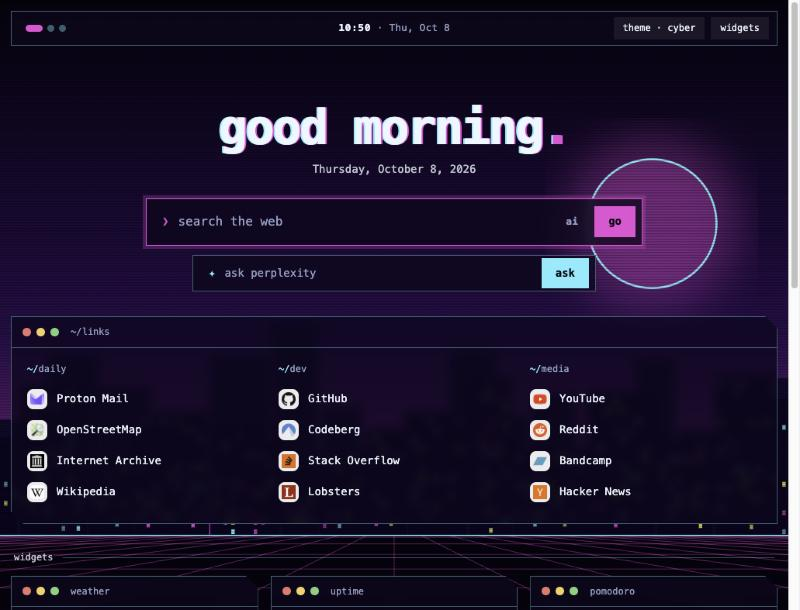
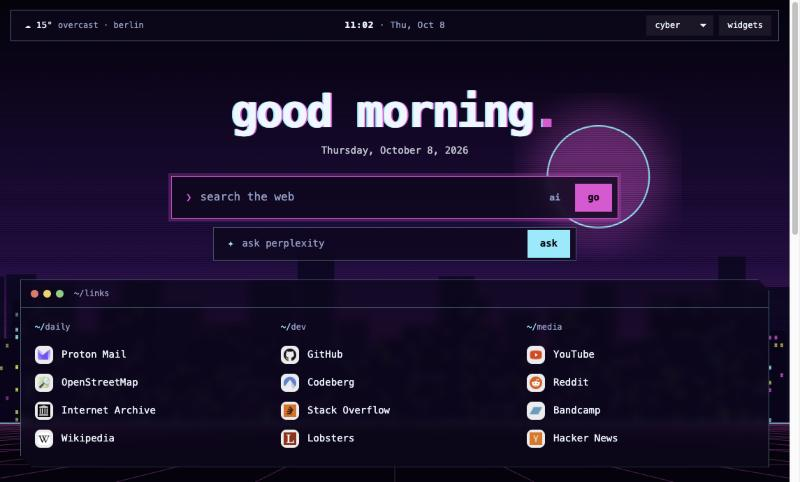
Update Weather Widget + Theme Selection

Changed region(s): [[0.0, 0.1556, 1.0, 1.0], [0.0, 0.0, 1.0, 0.4979], [0.1875, 0.9647, 0.2188, 0.9959]]

diff --git a/index.html b/index.html
@@ -71,13 +71,29 @@ a{color:inherit;text-decoration:none}
   background:var(--panel);border:var(--bw) var(--bs) var(--line);backdrop-filter:blur(var(--blur));-webkit-backdrop-filter:blur(var(--blur));font-size:13px}
 #top .l,#top .r{display:flex;gap:8px;align-items:center}
 #top .r{justify-content:flex-end}
-.ws{display:flex;gap:6px;padding:0 8px}
-.ws i{width:9px;height:9px;border-radius:50%;background:var(--line)}
-.ws i:first-child{background:var(--accent);width:22px;border-radius:9px}
+#wx{padding-left:10px;white-space:nowrap;font-size:13px}
+#wx small{color:var(--muted);font-size:12px}
 #clock{font-weight:600;letter-spacing:.04em}
 #date{color:var(--muted)}
 .pill{font:inherit;font-size:12px;color:var(--text);background:rgba(127,127,127,.14);border:0;border-radius:var(--pill);padding:5px 12px;cursor:pointer;transition:.15s}
-.pill:hover,.pill:focus-visible{background:var(--accent);color:var(--ink);outline:none}
+.pill:hover,.pill:focus-visible{background-color:var(--accent);color:var(--ink);outline:none}
+select.pill{appearance:none;-webkit-appearance:none;font-family:inherit;padding-right:26px;
+  background-image:linear-gradient(45deg,transparent 50%,currentColor 50%),linear-gradient(135deg,currentColor 50%,transparent 50%);
+  background-position:calc(100% - 14px) 52%,calc(100% - 9px) 52%;background-size:5px 5px,5px 5px;background-repeat:no-repeat}
+select.pill option{background:var(--sky1);color:var(--text)}
+.hnr{margin:0 0 10px}
+/* theme dropdown: styled by the active theme's variables, so hovering an entry (which previews that theme) restyles it too */
+.tsel{position:relative}
+#wpb{width:130px;display:flex;justify-content:space-between;align-items:center;gap:8px;text-align:left}
+#wpb span{overflow:hidden;text-overflow:ellipsis;white-space:nowrap}
+#wpb b{font-weight:400;opacity:.7}
+#wpm{position:absolute;right:0;top:calc(100% + 10px);width:180px;margin:0;padding:6px;list-style:none;z-index:8;
+  background:color-mix(in srgb,var(--sky1) 90%,transparent);border:var(--bw) var(--bs) var(--line);border-radius:var(--rad);
+  box-shadow:var(--shadow);backdrop-filter:blur(10px);-webkit-backdrop-filter:blur(10px);clip-path:var(--clip)}
+#wpm li{display:flex;justify-content:space-between;align-items:center;height:34px;padding:0 12px;border-radius:min(var(--rad),8px);cursor:pointer;font-size:13px;color:var(--text)}
+#wpm li[aria-selected=true]::after{content:"✓";color:var(--accent)}
+#wpm li:hover,#wpm li:focus{background:var(--accent);color:var(--ink);outline:none}
+#wpm li:hover::after,#wpm li:focus::after{color:var(--ink)}
 
 main{position:relative;z-index:2;max-width:1100px;margin:0 auto;padding:86px 14px 120px}
 
@@ -164,7 +180,7 @@ textarea{min-height:140px;resize:vertical}
 #panel .win{width:340px;max-width:90vw;margin:0;background:var(--sky1)}
 #panel label{display:flex;gap:12px;padding:8px 0;cursor:pointer}
 #panel input{accent-color:var(--accent)}
-@media(max-width:700px){#top{grid-template-columns:auto 1fr}#top .l{display:none}#date{display:none}}
+@media(max-width:700px){#date,#wx small{display:none}#wx{padding-left:4px}#wpb{width:104px}}
 @media(prefers-reduced-motion:reduce){*{transition:none!important}}
 </style>
 </head>
@@ -174,9 +190,9 @@ textarea{min-height:140px;resize:vertical}
 <svg id="grain" aria-hidden="true"><filter id="n"><feTurbulence type="fractalNoise" baseFrequency=".85" numOctaves="2" stitchTiles="stitch"/><feColorMatrix values="0 0 0 0 .5  0 0 0 0 .5  0 0 0 0 .5  0 0 0 1.2 -.1"/></filter><rect width="100%" height="100%" filter="url(#n)"/></svg>
 
 <nav id="top">
-  <div class="l"><div class="ws"><i></i><i></i><i></i></div></div>
+  <div class="l"><span id="wx" title="weather"></span></div>
   <div><span id="clock"></span> <span id="date"></span></div>
-  <div class="r"><button class="pill" id="wp" title="Change theme">theme</button><button class="pill" id="customize">widgets</button></div>
+  <div class="r"><div class="tsel"><button type="button" class="pill" id="wpb" aria-haspopup="listbox" aria-expanded="false" title="Theme"><span></span><b>▾</b></button><ul id="wpm" role="listbox" aria-label="Theme" hidden></ul></div><button class="pill" id="customize">widgets</button></div>
 </nav>
 
 <main>
@@ -205,10 +221,11 @@ const CONFIG = Object.assign({
   askUrl: "https://www.perplexity.ai/search",
   noAiBefore: "2022-01-01",
   favicons: true,
+  hnRange: "front",
   weather: { city: "Berlin", lat: 52.52, lon: 13.41 },
   greetings: {},
   links: {},
-  defaultWidgets: ["weather", "news", "progress", "notes", "todo", "timer"]
+  defaultWidgets: ["news", "progress", "notes", "todo", "timer"]
 }, window.SETUP, window.SETUP_LOCAL);
 const ALL_THEMES = ["dusk", "moss", "ink", "matrix", "minimal", "artist", "cyber", "medieval", "sketch"];
 const THEMES = CONFIG.themes || CONFIG.wallpapers || ALL_THEMES;
@@ -227,10 +244,23 @@ function tick() {
   $("#clock").textContent = `${p(h)}:${p(d.getMinutes())}`;
   $("#date").textContent = "· " + d.toLocaleDateString(undefined, { weekday: "short", day: "numeric", month: "short" });
   const g = h < 5 ? GREET.night : h < 12 ? GREET.morning : h < 18 ? GREET.afternoon : GREET.evening;
-  $("#greeting").innerHTML = g + (CONFIG.name ? `, <em>${esc(CONFIG.name)}</em>` : "<em>.</em>");
+  $("#greeting").innerHTML = esc(g.charAt(0).toUpperCase() + g.slice(1)) + (CONFIG.name ? `, <em>${esc(CONFIG.name)}</em>` : "<em>.</em>");
   $("#sub").textContent = d.toLocaleDateString(undefined, { weekday: "long", month: "long", day: "numeric", year: "numeric" });
 }
 tick(); setInterval(tick, 1000);
+
+/* weather lives in the top bar (not a widget) */
+async function loadWx() {
+  const { city, lat, lon } = CONFIG.weather, el = $("#wx");
+  try {
+    const j = await (await fetch(`https://api.open-meteo.com/v1/forecast?latitude=${lat}&longitude=${lon}&current=temperature_2m,weather_code,wind_speed_10m&daily=temperature_2m_max,temperature_2m_min&timezone=auto`)).json();
+    const c = j.current.weather_code;
+    const [icon, label] = c <= 1 ? ["☀", "clear"] : c === 2 ? ["⛅", "partly cloudy"] : c === 3 ? ["☁", "overcast"] : c < 50 ? ["≋", "fog"] : c < 70 || (c >= 80 && c < 90) ? ["☂", "rain"] : c < 80 ? ["❄", "snow"] : ["⚡", "thunderstorm"];
+    el.innerHTML = `${icon} ${Math.round(j.current.temperature_2m)}° <small>${esc(label)} · ${esc(city.toLowerCase())}</small>`;
+    el.title = `${city}: ${label}, high ${Math.round(j.daily.temperature_2m_max[0])}° / low ${Math.round(j.daily.temperature_2m_min[0])}°, wind ${Math.round(j.current.wind_speed_10m)} km/h`;
+  } catch { el.textContent = ""; }
+}
+loadWx(); setInterval(loadWx, 15 * 60 * 1000);
 $("#search").action = CONFIG.searchUrl;
 $("#ask").action = CONFIG.askUrl;
 /* "no ai": adds a before:<date> operator so results predate the AI boom (best-effort, depends on the engine honoring it) */
@@ -387,11 +417,31 @@ function paint() {
   $("#wall").innerHTML = (PAINT[THEME_ART[t] || t] || PAINT.landscape)(c);
   if (t === "matrix") stopFx = rain();
 }
-const setWp = n => { document.documentElement.dataset.wp = n; $("#wp").textContent = "theme · " + n; paint(); };
-$("#wp").onclick = () => {
-  const n = THEMES[(THEMES.indexOf(document.documentElement.dataset.wp) + 1) % THEMES.length];
-  setWp(n); store.set("wp", n);
-};
+const setWp = n => { document.documentElement.dataset.wp = n; paint(); };
+/* theme dropdown: hovering (or arrowing to) an entry previews that theme, clicking applies it */
+const menu = $("#wpm"), tbtn = $("#wpb");
+let committed = THEMES[0], pt;
+menu.innerHTML = THEMES.map(n => `<li role="option" tabindex="-1" data-t="${esc(n)}">${esc(n)}</li>`).join("");
+const lis = () => [...menu.querySelectorAll("li")];
+const markCur = () => lis().forEach(li => li.setAttribute("aria-selected", li.dataset.t === committed));
+const preview = n => { clearTimeout(pt); pt = setTimeout(() => { if (document.documentElement.dataset.wp !== n) setWp(n); }, 50); };
+const openMenu = () => { menu.hidden = false; tbtn.setAttribute("aria-expanded", "true"); markCur(); menu.querySelector(`[data-t="${committed}"]`).focus(); };
+const closeMenu = () => { if (menu.hidden) return; menu.hidden = true; tbtn.setAttribute("aria-expanded", "false"); preview(committed); };
+const commitWp = n => { committed = n; clearTimeout(pt); setWp(n); tbtn.firstElementChild.textContent = n; store.set("wp", n); markCur(); closeMenu(); tbtn.focus(); };
+tbtn.onclick = () => menu.hidden ? openMenu() : closeMenu();
+menu.addEventListener("mouseover", e => { const li = e.target.closest("li"); if (li) { li.focus({ preventScroll: true }); preview(li.dataset.t); } });
+menu.addEventListener("focusin", e => { const li = e.target.closest("li"); if (li) preview(li.dataset.t); });
+menu.addEventListener("mouseleave", () => preview(committed));
+menu.addEventListener("click", e => { const li = e.target.closest("li"); if (li) commitWp(li.dataset.t); });
+menu.addEventListener("keydown", e => {
+  const items = lis(), i = items.indexOf(document.activeElement);
+  if (e.key === "ArrowDown") { e.preventDefault(); items[(i + 1) % items.length].focus(); }
+  else if (e.key === "ArrowUp") { e.preventDefault(); items[(i - 1 + items.length) % items.length].focus(); }
+  else if (e.key === "Enter" || e.key === " ") { e.preventDefault(); if (i >= 0) commitWp(items[i].dataset.t); }
+  else if (e.key === "Escape") { e.preventDefault(); closeMenu(); tbtn.focus(); }
+  else if (e.key === "Tab") closeMenu();
+});
+document.addEventListener("click", e => { if (!e.target.closest(".tsel")) closeMenu(); });
 
 /* links */
 $("#links").innerHTML = Object.entries(CONFIG.links).map(([g, items]) =>
@@ -403,23 +453,29 @@ $("#links").innerHTML = Object.entries(CONFIG.links).map(([g, items]) =>
 
 /* widgets: each has a title, a window-title `file`, and a render(body) function. Add your own here. */
 const WIDGETS = {
-  weather: { title: "Weather", file: "weather", async render(b) {
-    const { city, lat, lon } = CONFIG.weather;
-    b.innerHTML = `<div class="muted">loading…</div>`;
-    try {
-      const r = await fetch(`https://api.open-meteo.com/v1/forecast?latitude=${lat}&longitude=${lon}&current=temperature_2m,weather_code,wind_speed_10m&daily=temperature_2m_max,temperature_2m_min&timezone=auto`);
-      const j = await r.json(), c = j.current;
-      const codes = { 0: "clear", 1: "mostly clear", 2: "partly cloudy", 3: "overcast", 45: "fog", 48: "fog", 51: "drizzle", 53: "drizzle", 55: "drizzle", 61: "rain", 63: "rain", 65: "heavy rain", 71: "snow", 73: "snow", 75: "heavy snow", 80: "showers", 81: "showers", 82: "heavy showers", 95: "thunderstorm", 96: "thunderstorm", 99: "thunderstorm" };
-      b.innerHTML = `<div class="muted">${esc(city.toLowerCase())}</div><div class="big">${Math.round(c.temperature_2m)}°</div><div>${codes[c.weather_code] || "—"}</div><div class="muted">h ${Math.round(j.daily.temperature_2m_max[0])}° · l ${Math.round(j.daily.temperature_2m_min[0])}° · wind ${Math.round(c.wind_speed_10m)} km/h</div>`;
-    } catch { b.innerHTML = `<div class="muted">couldn't load (offline?)</div>`; }
-  }},
   news: { title: "Hacker News", file: "hn --top", async render(b) {
-    b.innerHTML = `<div class="muted">loading…</div>`;
-    try {
-      const ids = (await (await fetch("https://hacker-news.firebaseio.com/v0/topstories.json")).json()).slice(0, 7);
-      const items = await Promise.all(ids.map(i => fetch(`https://hacker-news.firebaseio.com/v0/item/${i}.json`).then(r => r.json())));
-      b.innerHTML = `<ul class="news">${items.map(i => `<li><a href="${esc(i.url || "https://news.ycombinator.com/item?id=" + i.id)}">${esc(i.title)}</a><small>${i.score} pts · ${i.descendants || 0} comments</small></li>`).join("")}</ul>`;
-    } catch { b.innerHTML = `<div class="muted">couldn't load (offline?)</div>`; }
+    const ranges = { front: ["front page", 0], hour: ["top · past hour", 3600], day: ["top · today", 86400], week: ["top · this week", 604800], month: ["top · this month", 2592000] };
+    let range = store.get("hnrange", CONFIG.hnRange); if (!ranges[range]) range = "front";
+    b.innerHTML = `<select class="pill hnr" aria-label="Time range">${Object.entries(ranges).map(([k, [l]]) => `<option value="${k}"${k === range ? " selected" : ""}>${l}</option>`).join("")}</select><div class="hnl"></div>`;
+    const list = $(".hnl", b);
+    const load = async () => {
+      list.innerHTML = `<div class="muted">loading…</div>`;
+      try {
+        let items;
+        if (range === "front") {   // the live front page
+          const ids = (await (await fetch("https://hacker-news.firebaseio.com/v0/topstories.json")).json()).slice(0, 7);
+          items = (await Promise.all(ids.map(i => fetch(`https://hacker-news.firebaseio.com/v0/item/${i}.json`).then(r => r.json()))))
+            .map(i => ({ id: i.id, title: i.title, url: i.url, points: i.score, comments: i.descendants || 0 }));
+        } else {                   // best stories of a time window (HN Algolia search)
+          const since = Math.floor(Date.now() / 1000) - ranges[range][1];
+          const j = await (await fetch(`https://hn.algolia.com/api/v1/search?tags=story&numericFilters=created_at_i%3E${since}&hitsPerPage=7`)).json();
+          items = j.hits.map(h => ({ id: h.objectID, title: h.title, url: h.url, points: h.points || 0, comments: h.num_comments || 0 }));
+        }
+        list.innerHTML = items.length ? `<ul class="news">${items.map(i => `<li><a href="${esc(i.url || "https://news.ycombinator.com/item?id=" + i.id)}">${esc(i.title)}</a><small>${i.points} pts · ${i.comments} comments</small></li>`).join("")}</ul>` : `<div class="muted">nothing found</div>`;
+      } catch { list.innerHTML = `<div class="muted">couldn't load (offline?)</div>`; }
+    };
+    $(".hnr", b).onchange = e => { range = e.target.value; store.set("hnrange", range); load(); };
+    load();
   }},
   progress: { title: "Time progress", file: "uptime", render(b) {
     const draw = () => {
@@ -490,7 +546,7 @@ $("#customize").onclick = () => { sync(); $("#panel").classList.add("open"); };
 $("#close").onclick = () => $("#panel").classList.remove("open");
 $("#panel").onclick = e => { if (e.target.id === "panel") $("#panel").classList.remove("open"); };
 
-{ const saved = store.get("wp", THEMES[0]); setWp(THEMES.includes(saved) ? saved : THEMES[0]); }
+{ const saved = store.get("wp", THEMES[0]); committed = THEMES.includes(saved) ? saved : THEMES[0]; setWp(committed); tbtn.firstElementChild.textContent = committed; markCur(); }
 renderWidgets();
 </script>
 </body>

diff --git a/setup.js b/setup.js
@@ -9,7 +9,8 @@ window.SETUP = {
   askUrl: "https://www.perplexity.ai/search",        // second search bar (AI answers); any ?q= endpoint
   noAiBefore: "2022-01-01",                          // the "no ai" toggle limits results to before this date
   favicons: true,                                    // true = show each site's own favicon (loaded from that site); false = letter badges only
-  weather: { city: "Berlin", lat: 52.52, lon: 13.41 }, // coordinates: open-meteo.com
+  hnRange: "front",                                  // Hacker News widget: front | hour | day | week | month
+  weather: { city: "Berlin", lat: 52.52, lon: 13.41 }, // shown in the top bar; coordinates: open-meteo.com
   themes: ["dusk", "moss", "ink", "matrix", "minimal", "artist", "cyber", "medieval", "sketch"], // the theme button cycles through these; first = default
   greetings: {                                       // text of the greeting by time of day (any language)
     night: "still up", morning: "good morning", afternoon: "good afternoon", evening: "good evening"
@@ -35,5 +36,5 @@ window.SETUP = {
     ]
   },
   // Widgets enabled by default. Remove an id here, or toggle in the UI.
-  defaultWidgets: ["weather", "news", "progress", "notes", "todo", "timer"]
+  defaultWidgets: ["news", "progress", "notes", "todo", "timer"]
 };

diff --git a/README.md b/README.md
@@ -18,10 +18,11 @@ A cozy, single-file browser start page. One `index.html`, no build step, no depe
 - **Favorite links**, grouped, with each site's own favicon (letter badge as a fallback; switch off with `favicons: false`).
 - **Two search bars:** Startpage (default, configurable) and a second one that asks Perplexity directly.
 - **"ai" toggle** inside the Startpage search bar (crossed out = on): adds `before:2022-01-01` to your query so results predate the AI boom (the choice is remembered; change the date with `noAiBefore`).
-- **Optional widgets** you can toggle on and off in the page: weather (Open-Meteo), Hacker News top stories, time progress (day / week / year), notes, to-do list, focus timer.
-- **Nine themes** with their own artwork, colors, fonts and shapes: `dusk`, `moss`, `ink`, `matrix` (falling code), `minimal`, `artist`, `cyber`, `medieval` and `sketch` (hand drawn). Everything is drawn in code, so there are no image files to license. Switch with the *theme* button; your pick is remembered.
+- **Weather in the top bar** (Open-Meteo), next to the clock.
+- **Optional widgets** you can toggle on and off in the page: Hacker News (front page, or top of the past hour / day / week / month), time progress (day / week / year), notes, to-do list, focus timer.
+- **Nine themes** with their own artwork, colors, fonts and shapes: `dusk`, `moss`, `ink`, `matrix` (falling code), `minimal`, `artist`, `cyber`, `medieval` and `sketch` (hand drawn). Everything is drawn in code, so there are no image files to license. Pick one from the theme dropdown in the top bar (hover an entry to preview it, click to apply); your choice is remembered.
 - **Private:** notes, to-dos, widget choices and wallpaper are stored only in your browser (`localStorage`).
-- Works offline apart from the weather and news widgets.
+- Works offline apart from the weather and the news widget.
 
 ## Use it
 1. Download or clone this repo.
@@ -41,7 +42,8 @@ All your data lives in **`setup.js`**, a plain list of variables. Edit it, save,
 | `askUrl` | Endpoint for the second search bar (Perplexity by default) |
 | `noAiBefore` | Cut-off date used by the crossed-out "ai" toggle |
 | `favicons` | `true` (default) shows each site's own favicon, fetched from that site; `false` uses letter badges only. A link can take a third entry with a custom icon URL |
-| `weather` | City label plus latitude/longitude ([find coordinates](https://open-meteo.com)) |
+| `hnRange` | Default range of the Hacker News widget: `front`, `hour`, `day`, `week` or `month` |
+| `weather` | City label (shown in the top bar) plus latitude/longitude ([find coordinates](https://open-meteo.com)) |
 | `themes` | Which themes the theme button cycles through (first = default) |
 | `greetings` | Greeting text for night / morning / afternoon / evening, in any language |
 | `links` | Groups of `[label, url]` pairs |
@@ -54,7 +56,7 @@ If `setup.js` is missing or leaves something out, sensible defaults are used.
 **Add a widget:** add an entry to `WIDGETS` in `index.html` with a `title`, a window-title `file`, and a `render(body)` function. It then appears in the widgets panel automatically. Return a timer id from `render` if it needs cleaning up.
 
 ## Privacy
-The weather widget calls `api.open-meteo.com` and the news widget calls `hacker-news.firebaseio.com`. With `favicons` on, the page also requests each linked site's own `favicon.ico` (no third-party icon service). Turn the widgets off and set `favicons: false` and the page makes no network requests at all.
+The weather in the top bar calls `api.open-meteo.com`; the news widget calls `hacker-news.firebaseio.com` (front page) or `hn.algolia.com` (other time ranges). With `favicons` on, the page also requests each linked site's own `favicon.ico` (no third-party icon service). The weather request can't be switched off, so the page is not fully offline. Turn off the news widget and set `favicons: false` to limit it to that one call.
 
 ## License
 MIT, see [LICENSE](LICENSE). The themes are drawn by the page's own code, so there are no third-party assets.
